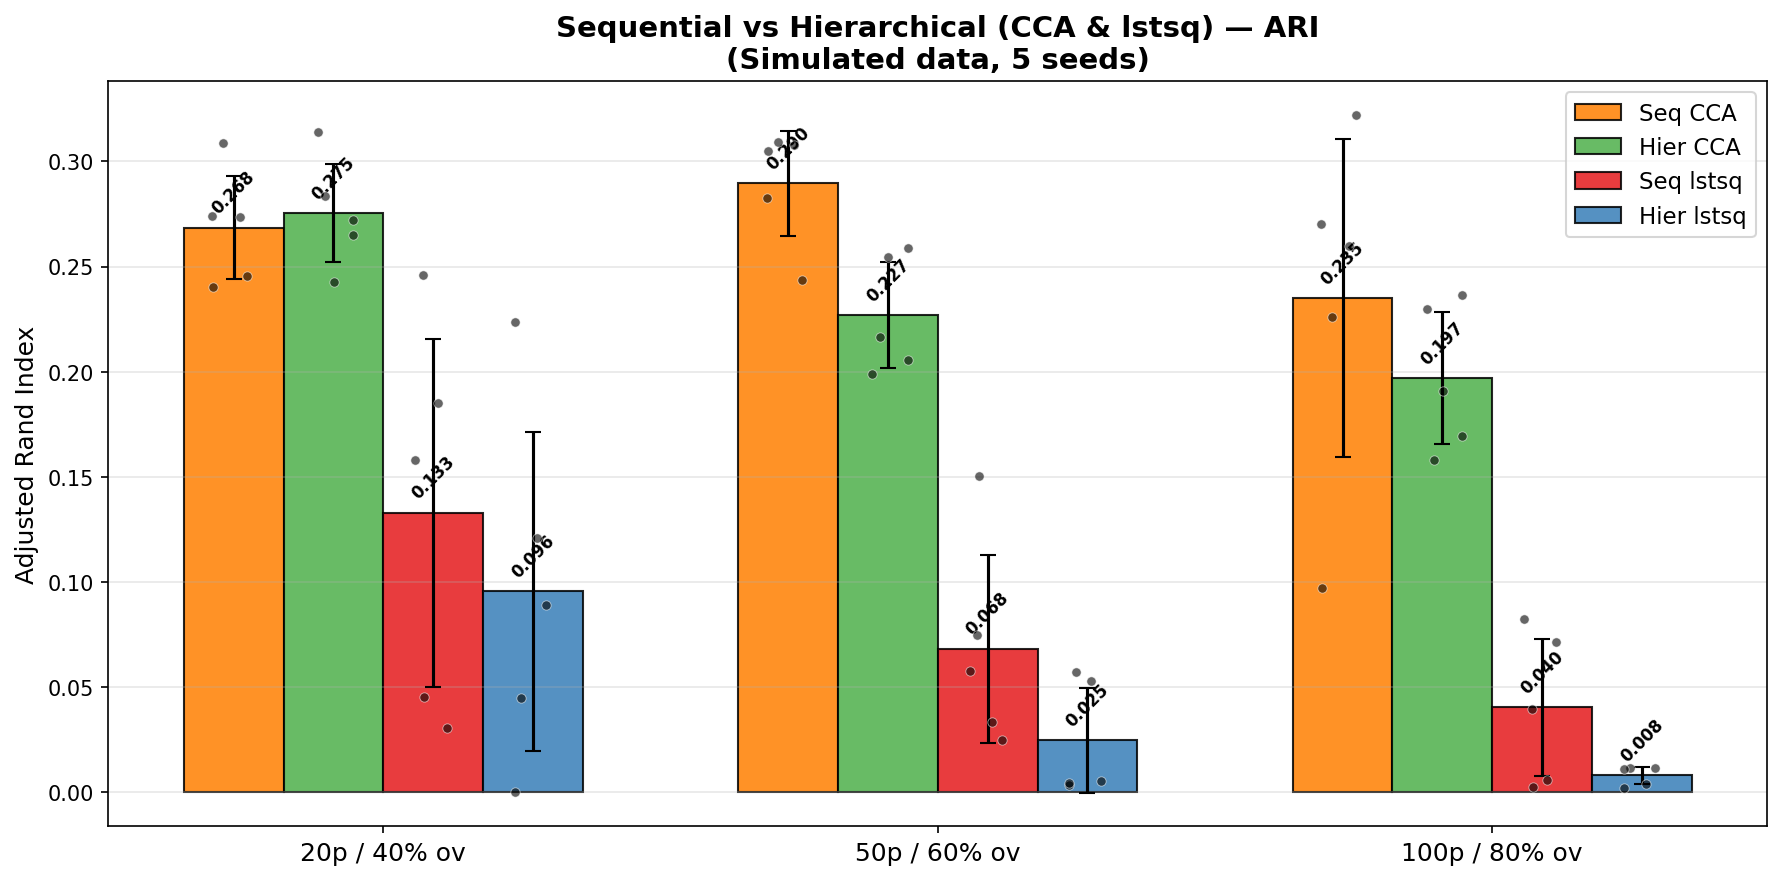
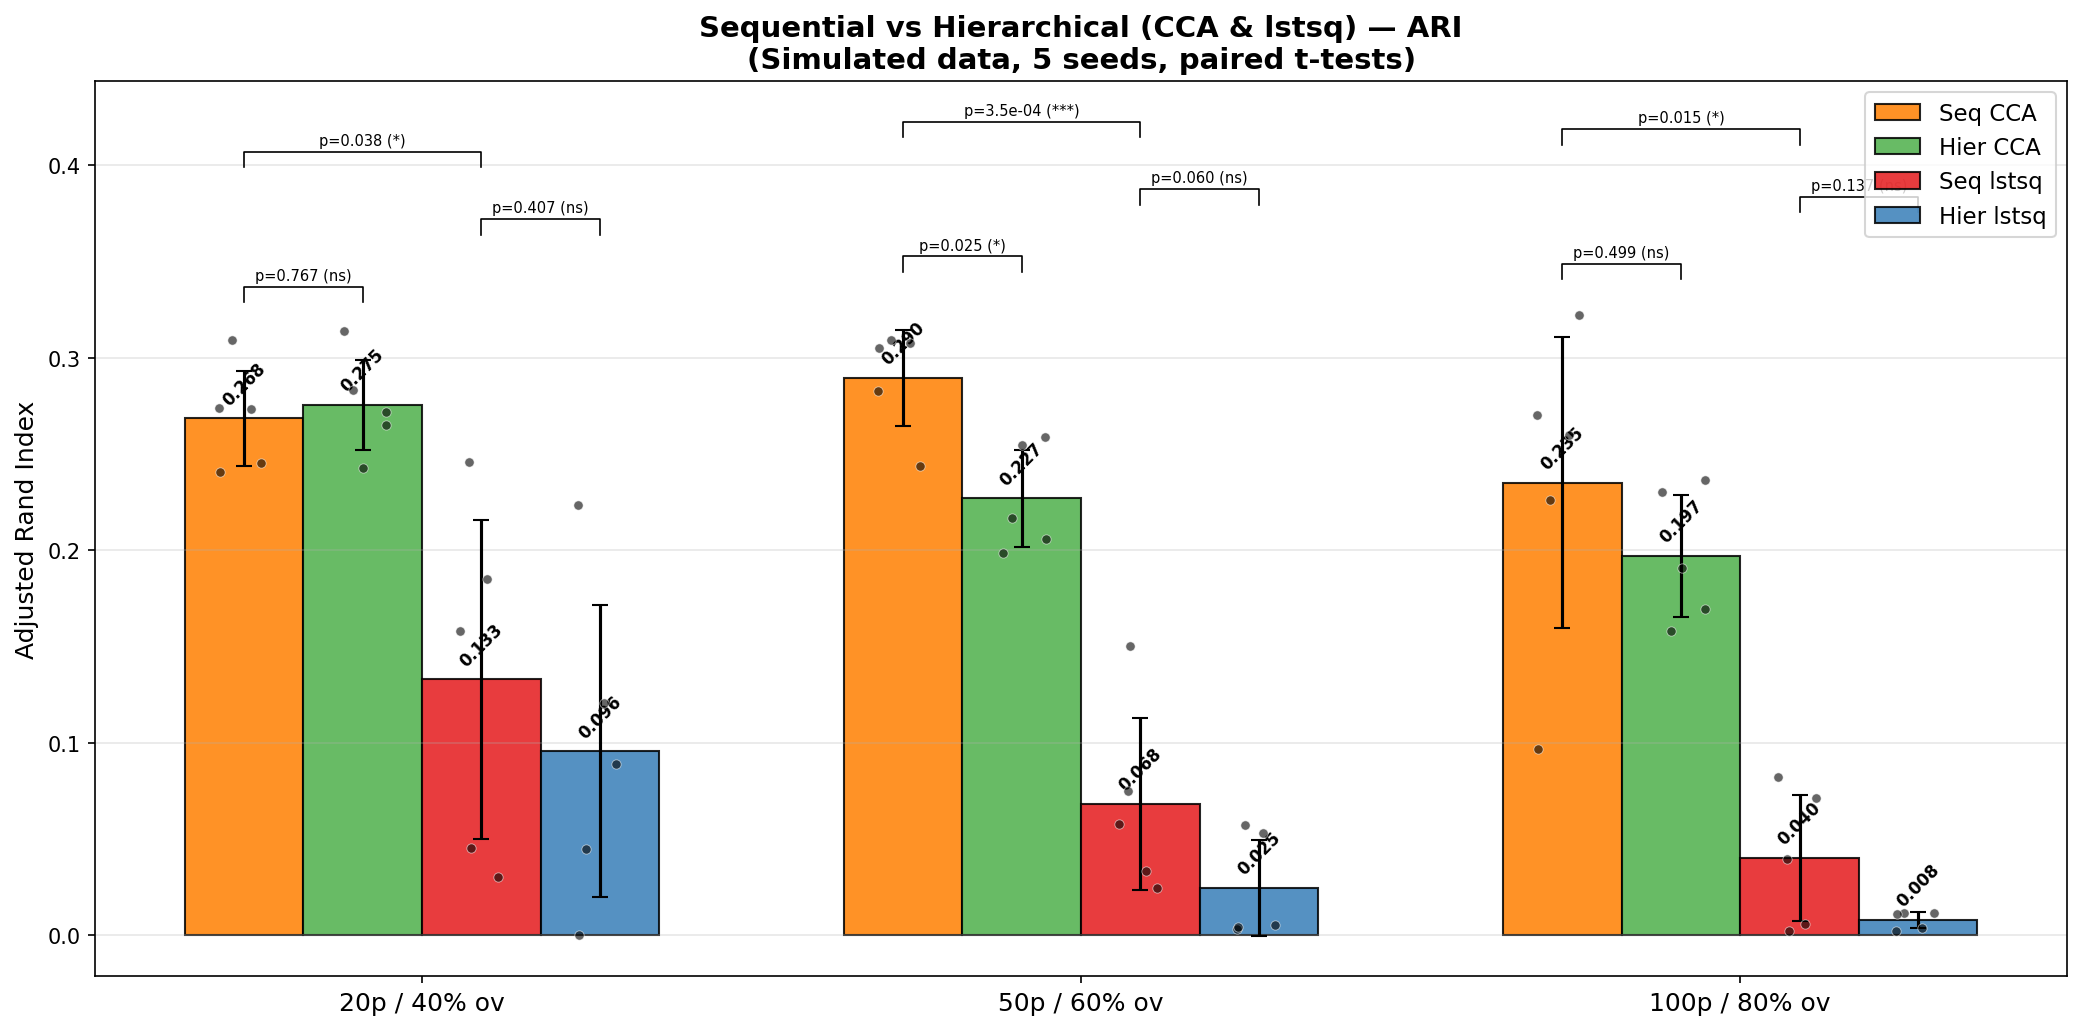
Add paired t-tests and significance brackets to seq vs hier CCA comparison
- Paired t-tests (5 seeds) for all pairwise method comparisons at each config
- Significance brackets on bar plots (ARI and column-info)
- Per-config p-values annotated on difference plot
- Key results: CCA >> lstsq at all scales (p<0.05); Seq CCA > Hier CCA
  at 50p (p=0.025) but not at 20p or 100p (high variance)

diff --git a/seq_vs_hier_cca.py b/seq_vs_hier_cca.py
@@ -15,6 +15,7 @@ Outputs plots to plots/seqvshierCCA/.
 import numpy as np
 import matplotlib.pyplot as plt
 from pathlib import Path
+from scipy.stats import ttest_rel
 from sklearn.cluster import KMeans
 from sklearn.metrics import adjusted_rand_score
 from sklearn.decomposition import PCA
@@ -378,19 +379,56 @@ METHOD_COLORS = {
     'seq_ls': '#e41a1c', 'hier_ls': '#377eb8',
 }
 
+def _sig_label(p):
+    if p < 0.001: return '***'
+    if p < 0.01: return '**'
+    if p < 0.05: return '*'
+    return 'ns'
+
+
 print("\n\n=== Summary ===")
+# Pairwise comparisons of interest
+PAIRS = [
+    ('seq_cca', 'hier_cca'),   # CCA: seq vs hier
+    ('seq_ls',  'hier_ls'),    # lstsq: seq vs hier
+    ('seq_ls',  'seq_cca'),    # sequential: lstsq vs CCA
+    ('hier_ls', 'hier_cca'),   # hierarchical: lstsq vs CCA
+]
+
 for cfg in CONFIGS:
     n_p = cfg['n_patches']
     subset = [r for r in results if r['n_patches'] == n_p]
     if not subset:
         print(f"  {n_p} patches: no valid results")
         continue
-    print(f"  {n_p:3d} patches ({cfg['overlap_frac']:.0%} ov):")
+    print(f"\n  {n_p:3d} patches ({cfg['overlap_frac']:.0%} ov):")
     for m in METHODS:
         ari = np.array([r[f'ari_{m}'] for r in subset])
         ci = np.array([r[f'ci_{m}'] for r in subset])
         print(f"    {METHOD_LABELS[m]:12s}: ARI={ari.mean():.3f}+/-{ari.std():.3f}  "
               f"CI={ci.mean():.3f}+/-{ci.std():.3f}")
+
+    print(f"    ── Paired t-tests (ARI) ──")
+    for m_a, m_b in PAIRS:
+        a = np.array([r[f'ari_{m_a}'] for r in subset])
+        b = np.array([r[f'ari_{m_b}'] for r in subset])
+        if np.allclose(a, b):
+            continue
+        t, p = ttest_rel(a, b)
+        print(f"      {METHOD_LABELS[m_a]} vs {METHOD_LABELS[m_b]}: "
+              f"t={t:+.3f}, p={p:.4f} ({_sig_label(p)}), "
+              f"mean diff={a.mean()-b.mean():+.4f}")
+
+    print(f"    ── Paired t-tests (Column Info) ──")
+    for m_a, m_b in PAIRS:
+        a = np.array([r[f'ci_{m_a}'] for r in subset])
+        b = np.array([r[f'ci_{m_b}'] for r in subset])
+        if np.allclose(a, b):
+            continue
+        t, p = ttest_rel(a, b)
+        print(f"      {METHOD_LABELS[m_a]} vs {METHOD_LABELS[m_b]}: "
+              f"t={t:+.3f}, p={p:.4f} ({_sig_label(p)}), "
+              f"mean diff={a.mean()-b.mean():+.4f}")
 
 
 # ================================================================
@@ -401,10 +439,21 @@ n_cfgs = len(CONFIGS)
 n_methods = len(METHODS)
 width = 0.18  # bar width — 4 bars fit with some gap
 
+def _draw_sig_bracket(ax, x1, x2, y, p, h=0.008):
+    """Draw a significance bracket between two x positions."""
+    sig = _sig_label(p)
+    ax.plot([x1, x1, x2, x2], [y, y + h, y + h, y], color='k', lw=0.8)
+    label = f'p={p:.3f} ({sig})' if p >= 0.001 else f'p={p:.1e} ({sig})'
+    ax.text((x1 + x2) / 2, y + h + 0.002, label,
+            ha='center', va='bottom', fontsize=7)
+
+
 def _grouped_bar_plot(metric_key, ylabel, title_suffix, filename):
-    fig, ax = plt.subplots(figsize=(12, 6))
+    fig, ax = plt.subplots(figsize=(14, 7))
     x = np.arange(n_cfgs)
 
+    # Collect all data for bracket placement
+    all_data = {}  # method → list of (mean, std) per config
     for mi, m in enumerate(METHODS):
         means, stds, pts = [], [], []
         for cfg in CONFIGS:
@@ -416,6 +465,7 @@ def _grouped_bar_plot(metric_key, ylabel, title_suffix, filename):
         bars = ax.bar(x + offset, means, width, yerr=stds, capsize=4,
                       label=METHOD_LABELS[m], color=METHOD_COLORS[m],
                       edgecolor='k', alpha=0.85)
+        all_data[m] = {'means': means, 'stds': stds, 'pts': pts, 'offset': offset}
 
         # Overlay seed points
         for i in range(n_cfgs):
@@ -429,12 +479,36 @@ def _grouped_bar_plot(metric_key, ylabel, title_suffix, filename):
                     f'{mu:.3f}', ha='center', va='bottom', fontweight='bold',
                     fontsize=8, rotation=45)
 
+    # Add significance brackets for key comparisons at each config
+    bracket_pairs = [
+        ('seq_cca', 'hier_cca'),   # CCA: seq vs hier
+        ('seq_ls',  'hier_ls'),    # lstsq: seq vs hier
+        ('seq_ls',  'seq_cca'),    # sequential: lstsq vs CCA
+    ]
+    for ci_idx, cfg in enumerate(CONFIGS):
+        subset = [r for r in results if r['n_patches'] == cfg['n_patches']]
+        # Find the max bar top at this config for bracket placement
+        y_top = max(all_data[m]['means'][ci_idx] + all_data[m]['stds'][ci_idx]
+                    for m in METHODS) + 0.03
+
+        for bi, (m_a, m_b) in enumerate(bracket_pairs):
+            a_vals = np.array([r[f'{metric_key}_{m_a}'] for r in subset])
+            b_vals = np.array([r[f'{metric_key}_{m_b}'] for r in subset])
+            if np.allclose(a_vals, b_vals):
+                continue
+            _, p = ttest_rel(a_vals, b_vals)
+            x1 = x[ci_idx] + all_data[m_a]['offset']
+            x2 = x[ci_idx] + all_data[m_b]['offset']
+            y_bracket = y_top + bi * 0.035
+            _draw_sig_bracket(ax, x1, x2, y_bracket, p)
+
     ax.set_xticks(x)
     ax.set_xticklabels(config_labels, fontsize=12)
     ax.set_ylabel(ylabel, fontsize=12)
     ax.set_title(f'Sequential vs Hierarchical (CCA & lstsq) — {title_suffix}\n'
-                 f'(Simulated data, 5 seeds)', fontsize=14, fontweight='bold')
-    ax.legend(fontsize=11, loc='best')
+                 f'(Simulated data, 5 seeds, paired t-tests)',
+                 fontsize=14, fontweight='bold')
+    ax.legend(fontsize=11, loc='upper right')
     ax.grid(axis='y', alpha=0.3)
     fig.tight_layout()
     fig.savefig(OUT_DIR / filename, dpi=150, bbox_inches='tight')
@@ -447,7 +521,7 @@ _grouped_bar_plot('ci', 'Column Info (fraction of baseline)', 'Column Info',
                   'column_info_comparison.png')
 
 # ── Plot 3: Difference plot (CCA hier-seq vs lstsq hier-seq) ────
-fig, (ax1, ax2) = plt.subplots(1, 2, figsize=(13, 5.5))
+fig, (ax1, ax2) = plt.subplots(1, 2, figsize=(14, 6))
 
 for ax, metric, ylabel, title in [
     (ax1, 'ari', 'Difference (Hier - Seq)', 'ARI: Hierarchical - Sequential'),
@@ -455,9 +529,12 @@ for ax, metric, ylabel, title in [
 ]:
     for i, cfg in enumerate(CONFIGS):
         subset = [r for r in results if r['n_patches'] == cfg['n_patches']]
+
         # CCA diffs
-        diffs_cca = np.array([r[f'{metric}_hier_cca'] - r[f'{metric}_seq_cca']
-                              for r in subset])
+        a_cca = np.array([r[f'{metric}_seq_cca'] for r in subset])
+        b_cca = np.array([r[f'{metric}_hier_cca'] for r in subset])
+        diffs_cca = b_cca - a_cca
+        _, p_cca = ttest_rel(a_cca, b_cca)
         jitter = np.random.default_rng(i).uniform(-0.06, 0.06, len(diffs_cca))
         ax.scatter(np.full(len(diffs_cca), i) - 0.12 + jitter, diffs_cca,
                    s=45, zorder=5, alpha=0.8, edgecolors='k', linewidths=0.5,
@@ -466,9 +543,17 @@ for ax, metric, ylabel, title in [
                     fmt='D', color=METHOD_COLORS['hier_cca'],
                     markersize=7, capsize=5, zorder=6, linewidth=2,
                     markeredgecolor='k')
+        # Annotate p-value for CCA
+        y_cca = diffs_cca.mean() + diffs_cca.std() + 0.01
+        ax.text(i - 0.12, y_cca, f'p={p_cca:.3f}\n({_sig_label(p_cca)})',
+                ha='center', va='bottom', fontsize=7, color=METHOD_COLORS['hier_cca'],
+                fontweight='bold')
+
         # lstsq diffs
-        diffs_ls = np.array([r[f'{metric}_hier_ls'] - r[f'{metric}_seq_ls']
-                             for r in subset])
+        a_ls = np.array([r[f'{metric}_seq_ls'] for r in subset])
+        b_ls = np.array([r[f'{metric}_hier_ls'] for r in subset])
+        diffs_ls = b_ls - a_ls
+        _, p_ls = ttest_rel(a_ls, b_ls)
         jitter = np.random.default_rng(i + 10).uniform(-0.06, 0.06, len(diffs_ls))
         ax.scatter(np.full(len(diffs_ls), i) + 0.12 + jitter, diffs_ls,
                    s=45, zorder=5, alpha=0.8, edgecolors='k', linewidths=0.5,
@@ -477,6 +562,11 @@ for ax, metric, ylabel, title in [
                     fmt='D', color=METHOD_COLORS['hier_ls'],
                     markersize=7, capsize=5, zorder=6, linewidth=2,
                     markeredgecolor='k')
+        # Annotate p-value for lstsq
+        y_ls = diffs_ls.mean() + diffs_ls.std() + 0.01
+        ax.text(i + 0.12, y_ls, f'p={p_ls:.3f}\n({_sig_label(p_ls)})',
+                ha='center', va='bottom', fontsize=7, color=METHOD_COLORS['hier_ls'],
+                fontweight='bold')
 
     ax.axhline(0, color='k', ls='--', lw=1, alpha=0.5)
     ax.set_xticks(range(n_cfgs))
@@ -487,7 +577,7 @@ for ax, metric, ylabel, title in [
     ax.grid(axis='y', alpha=0.3)
 
 fig.suptitle('Hierarchical vs Sequential: CCA and lstsq\n'
-             '(> 0 means hierarchical wins)',
+             '(> 0 means hierarchical wins; paired t-test p-values shown)',
              fontsize=13, fontweight='bold')
 fig.tight_layout()
 fig.savefig(OUT_DIR / 'difference_plot.png', dpi=150, bbox_inches='tight')
